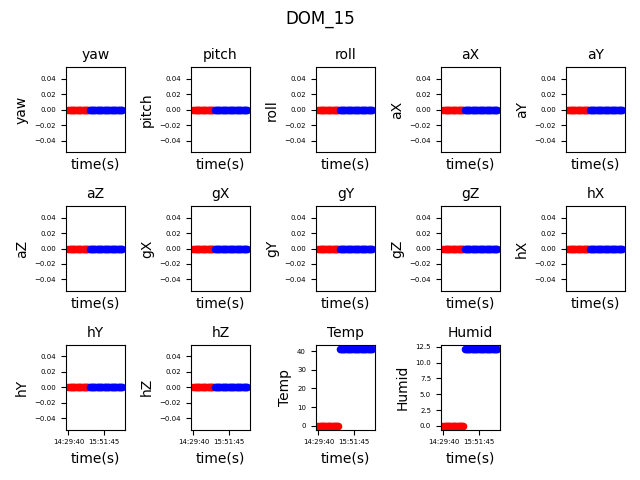
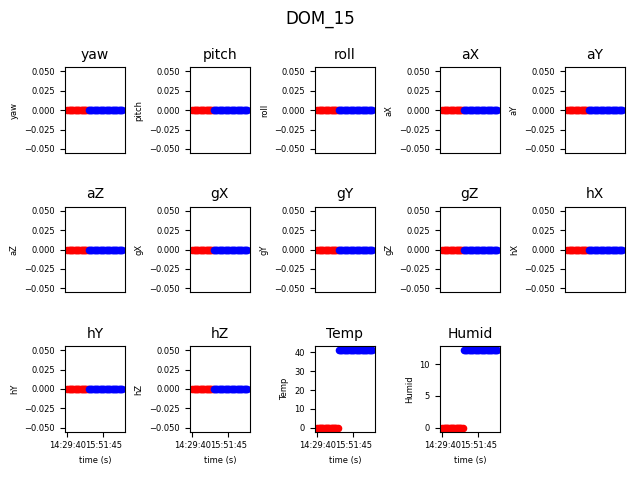
Images

diff --git a/MONITORING_CHECKS/compare.py b/MONITORING_CHECKS/compare.py
@@ -11,10 +11,30 @@ for i in doms_list:
     tmch_data = tmch_df[tmch_df['DOM']==i]
     srp_data = srp_df[srp_df['DOM']==i]
     fig=plt.figure()
+    fig.suptitle('DOM_'+str(i))
     for index,key in enumerate(tmch_df.keys()[-14:]):
         axx=fig.add_subplot(3,5,index+1)
         srp_data.plot(kind='scatter',x='time',y=key,color='red',ax=axx)
         tmch_data.plot(kind='scatter',x='time(s)',y=key,color='blue',ax=axx)
+        
+        axx.xaxis.set_major_locator(plt.MaxNLocator(2))
+        if index<10:
+            axx.tick_params(axis='x',which='both',bottom=False,top=False,labelbottom=False)
+            axx.set_xlabel(' ')
+
+        else:
+            axx.set_xlabel('time (s)',fontsize=6)
+            axx.tick_params(axis='x',labelsize=6)
+
+        axx.tick_params(axis='y',labelsize=6)           
+        axx.set_ylabel(str(key),fontsize=6)
+        axx.set_title(str(key), fontsize=10)
+        #axx.label_outer()
+        #axx.set_ylabel(" ")
+        
+        #if index != 13:
+        #    axx.set_xlabel(" ")
+        
     fig.tight_layout()
     fig.savefig('DOM_'+str(i)+'.png')
     
